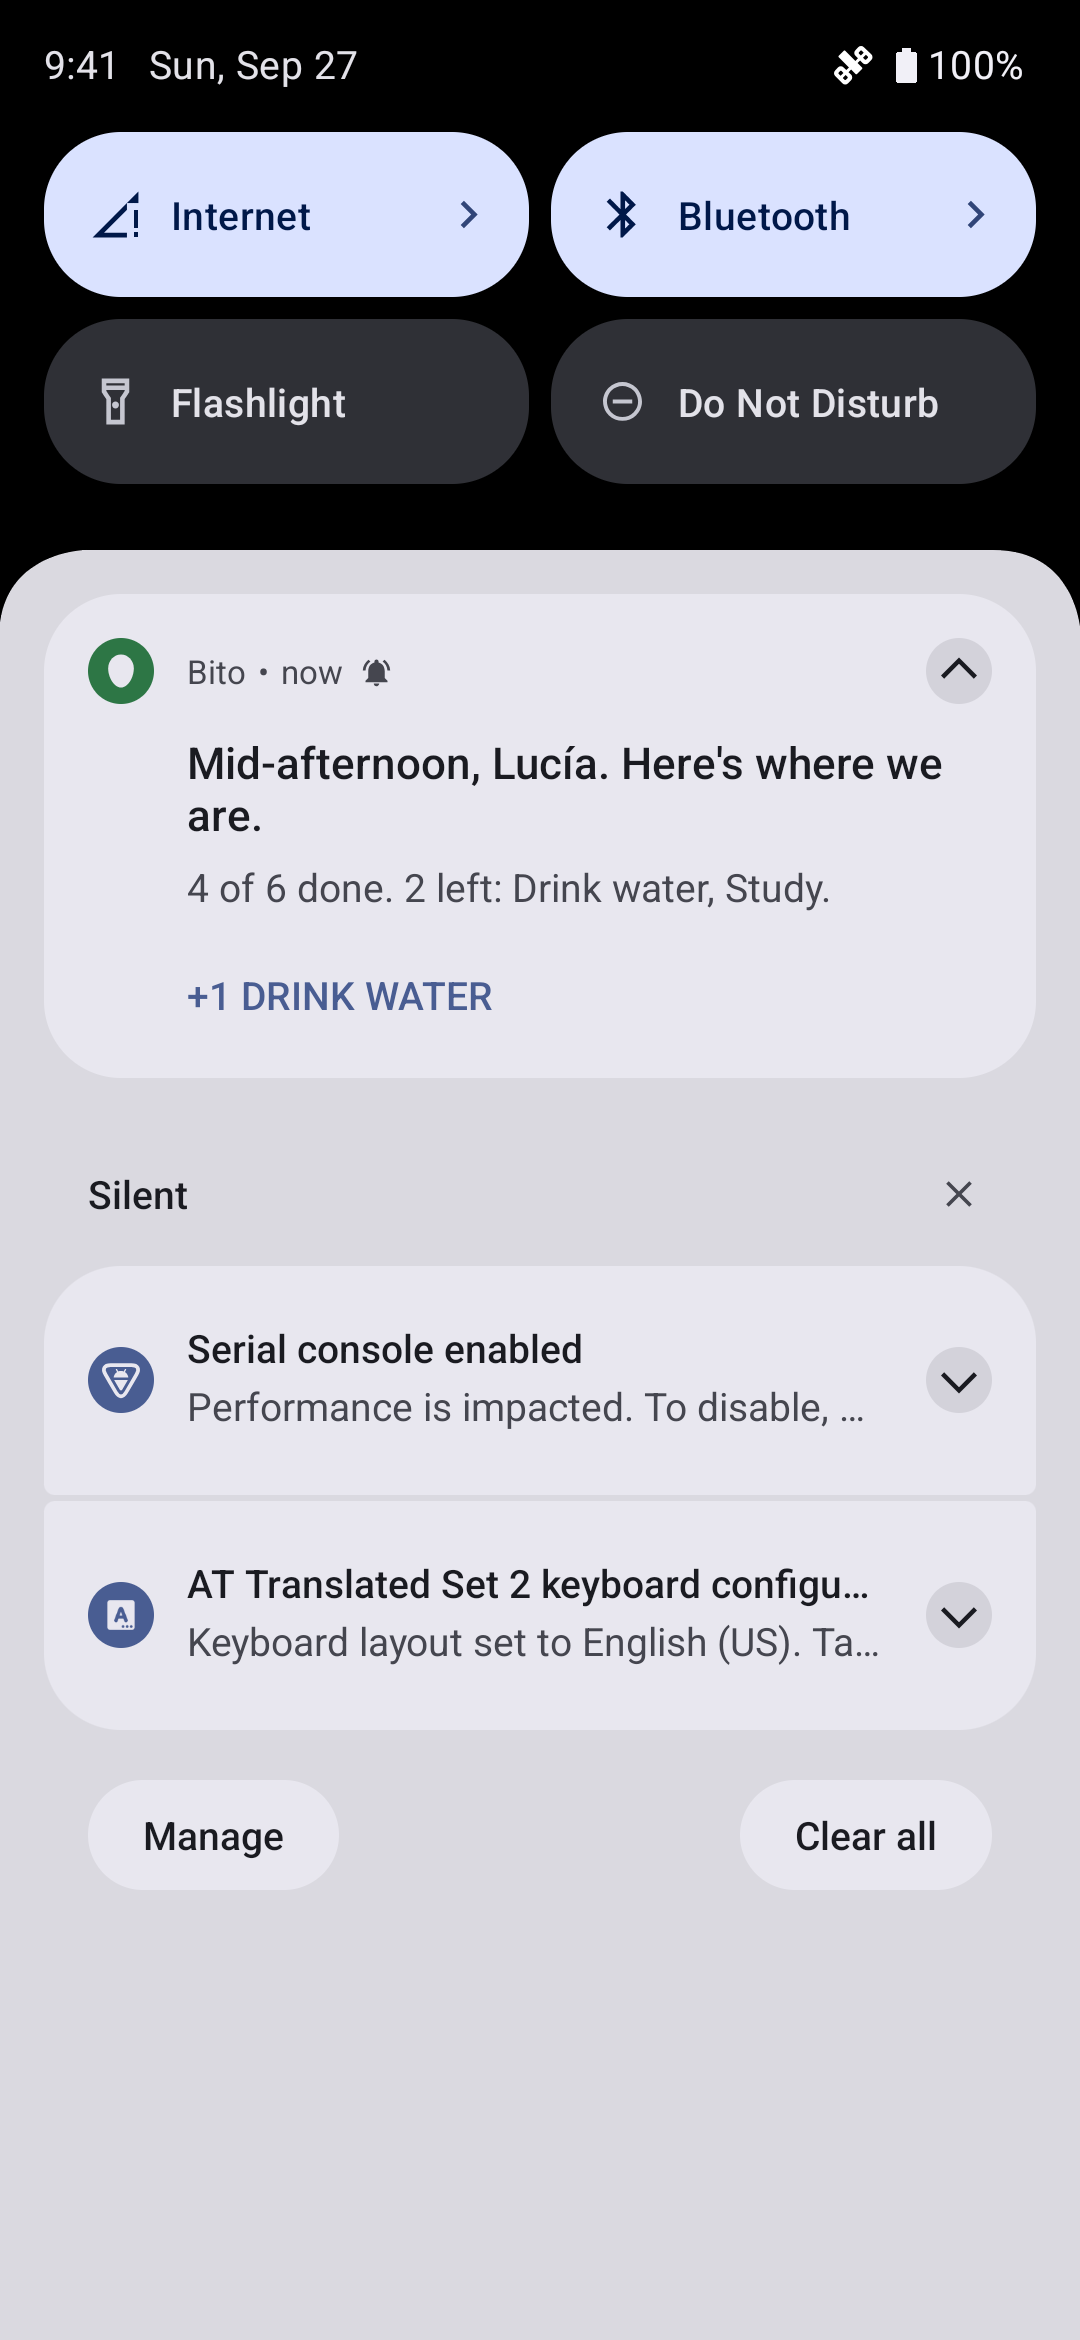
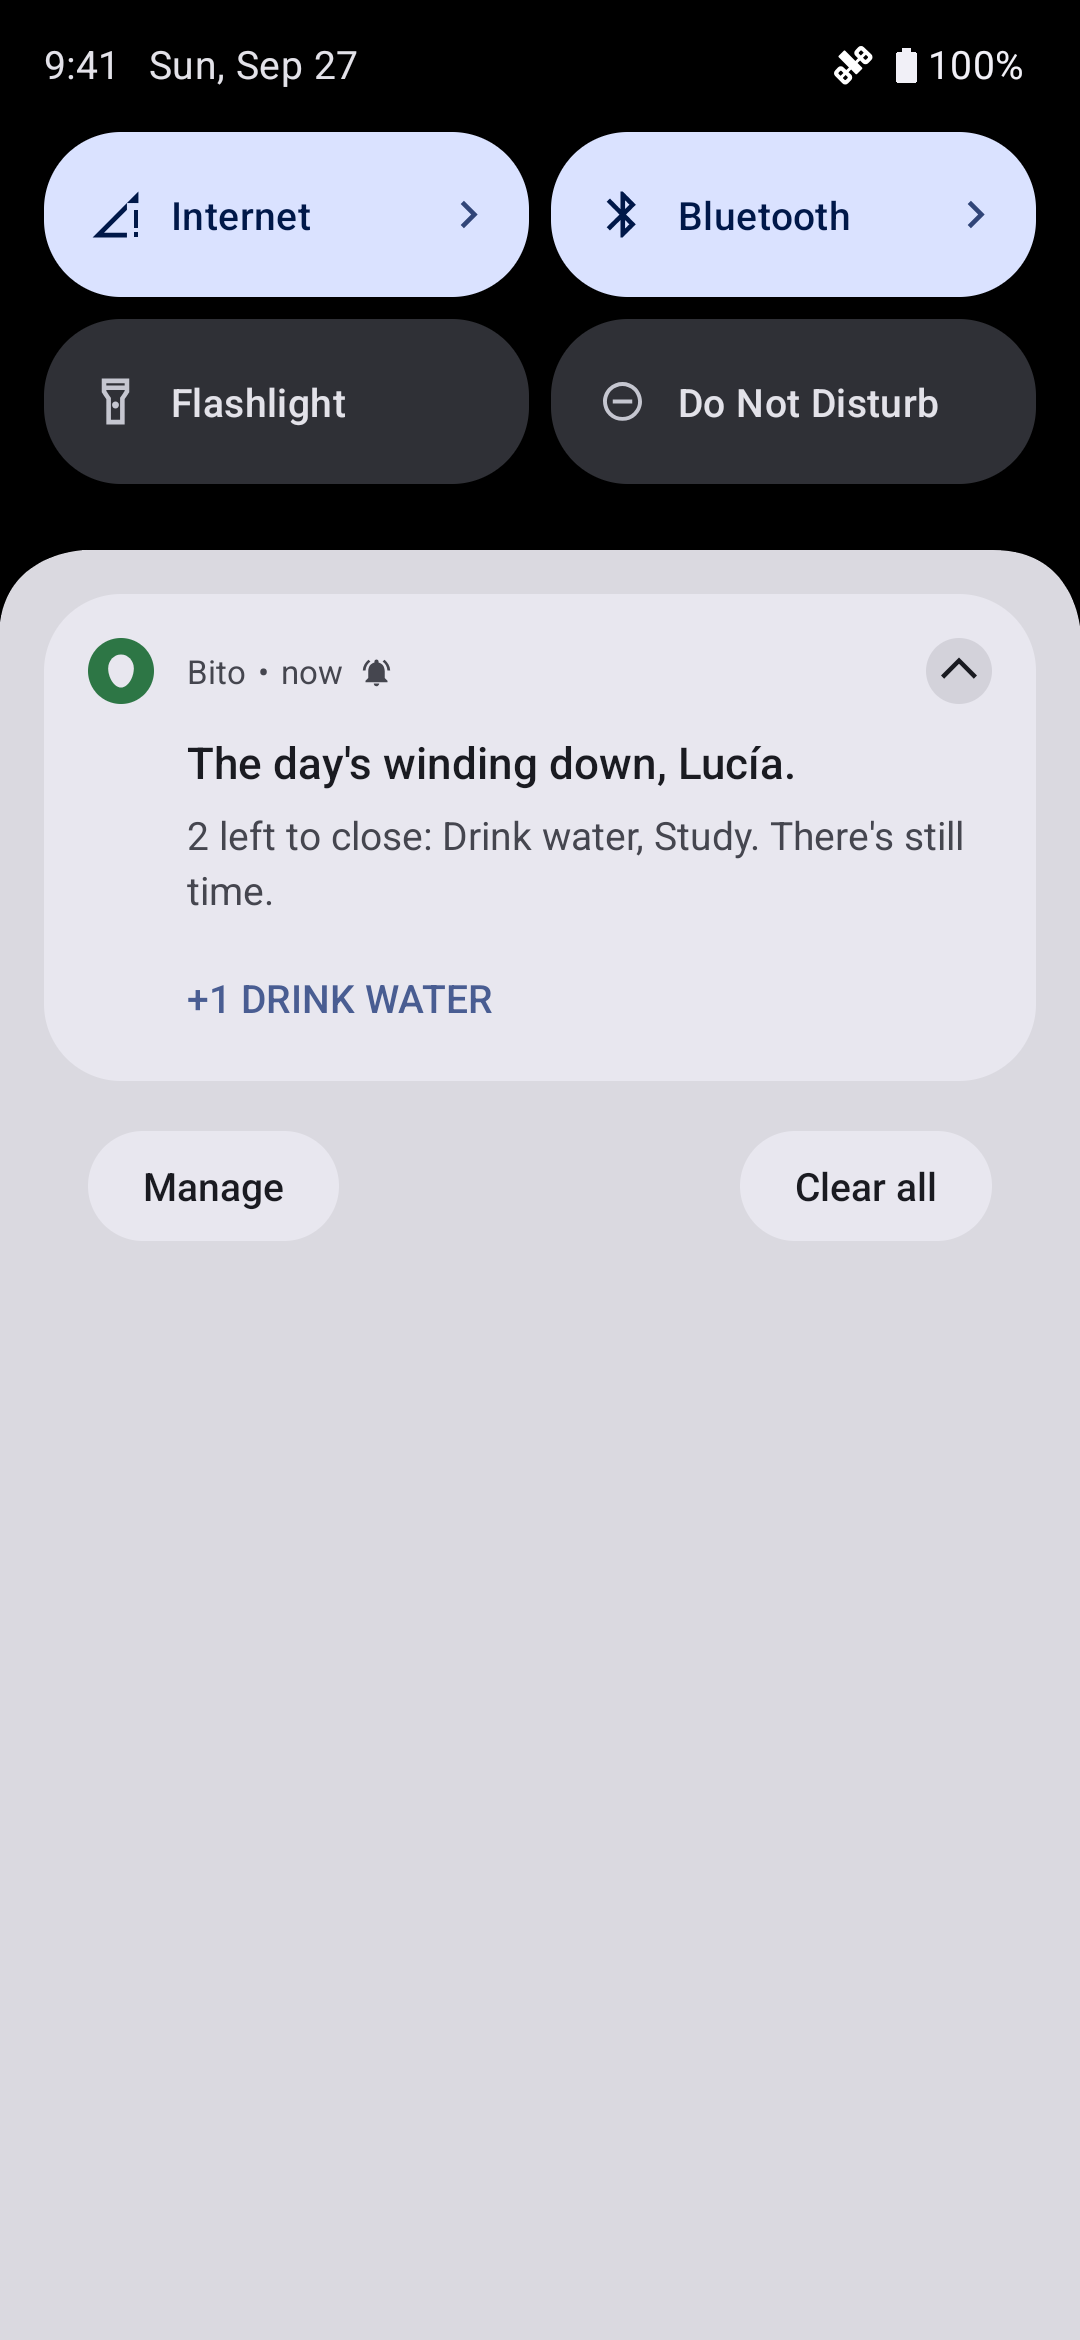
fix(shots): persiana limpia en la captura de notificacion
La captura EN de notificacion podia enseñar, bajo el aviso de Bito, un
grupo con notificaciones del sistema (consola en serie, teclado)
cuando salian despues del primer posponer. Ahora run_shots.py pospone
esas notificaciones dos veces mas -antes de armar el recordatorio de
Bito y justo antes de la foto- y capture() comprueba la persiana tras
la foto, descartando el intento si queda alguna notificacion ajena en
vez de confiar solo en el posponer.

Rehechas notificacion.png en/es, las capturas de tienda y los dos
video promocionales, que usan esa pantalla en la escena del triptico.

diff --git a/video/shots/test_run_shots.py b/video/shots/test_run_shots.py
@@ -2,7 +2,9 @@ import json
 import tempfile
 import unittest
 import xml.etree.ElementTree as ET
+from io import BytesIO
 from pathlib import Path
+from unittest import mock
 
 from PIL import Image
 
@@ -98,6 +100,103 @@ class RunShotsTest(unittest.TestCase):
             self.assertIsNone(run_shots.screencap_for("respiracion", 66))
         finally:
             run_shots.MAESTRO_SHOT_PATH = original
+
+    def test_notificacion_snoozes_system_notifications_before_arming_and_before_the_shot(self):
+        # Notificaciones del sistema (pkg=android: consola serie, teclado) pueden estar en la
+        # persiana en cualquier momento antes de la foto. before() las pospone al principio, para
+        # partir de una persiana limpia antes de armar el aviso de Bito, y otra vez justo antes
+        # de disparar, por si sale alguna entre medias.
+        calls: list[str] = []
+
+        def fake_shell(cmd, check=True):
+            if "expand-notifications" in cmd:
+                calls.append("expand")
+            return ""
+
+        with (
+            mock.patch.object(run_shots.d, "shell", side_effect=fake_shell),
+            mock.patch.object(run_shots, "snooze_system_notifications", side_effect=lambda: calls.append("snooze")),
+            mock.patch.object(run_shots, "notification_posted", return_value=True),
+            mock.patch.object(run_shots, "emulator"),
+            mock.patch.object(run_shots.subprocess, "run"),
+            mock.patch.object(run_shots.time, "sleep"),
+        ):
+            self.assertTrue(run_shots.before("notificacion", "en"))
+
+        self.assertEqual(calls, ["snooze", "snooze", "expand", "snooze"])
+
+
+class ShadeCleanTest(unittest.TestCase):
+    # Extracto real de `dumpsys notification --noredact` tras arrancar en frio el AVD
+    # bito-shots con -wipe-data: "Serial console enabled" (id=55) y "AT Translated Set 2
+    # keyboard configured" (id=19), las dos notificaciones de la regresion. Las dos son
+    # pkg=android, no de Bito.
+    DIRTY_DUMP = (
+        "Current Notification Manager state:\n"
+        "  Notification List:\n"
+        "    NotificationRecord(0x02ebc189: pkg=android user=UserHandle{-1} id=55 tag=null"
+        " importance=2 key=-1|android|55|null|1000: Notification(channel=DEVELOPER"
+        " shortcut=null contentView=null vibrate=null sound=null tick defaults=0"
+        " flags=ONGOING_EVENT|CAN_COLORIZE color=0x00000000 vis=PUBLIC))\n"
+        "    NotificationRecord(0x0c4f558e: pkg=android user=UserHandle{-1} id=19 tag=null"
+        " importance=2 key=-1|android|19|null|1000: Notification(channel=PHYSICAL_KEYBOARD"
+        " shortcut=null contentView=null vibrate=null sound=null defaults=0"
+        " flags=AUTO_CANCEL|CAN_COLORIZE color=0x00000000 vis=PRIVATE))\n"
+    )
+    CLEAN_DUMP = (
+        "Current Notification Manager state:\n"
+        "  Notification List:\n"
+        "    NotificationRecord(0x1a2b3c4d: pkg=com.alvarotc.bito user=UserHandle{0} id=1"
+        " tag=null importance=3 key=0|com.alvarotc.bito|1|null|10234:"
+        " Notification(channel=reminders shortcut=null contentView=null vibrate=null"
+        " sound=null defaults=0 flags=AUTO_CANCEL color=0xffab4433 vis=PRIVATE))\n"
+    )
+    EMPTY_DUMP = "Current Notification Manager state:\n  Notification List:\n"
+
+    def test_notification_records_parses_the_real_system_notifications(self):
+        self.assertEqual(
+            run_shots.notification_records(self.DIRTY_DUMP),
+            [("android", "-1|android|55|null|1000"), ("android", "-1|android|19|null|1000")],
+        )
+
+    def test_shade_is_clean_is_false_with_system_notifications_present(self):
+        with mock.patch.object(run_shots.d, "shell", return_value=self.DIRTY_DUMP):
+            self.assertFalse(run_shots.shade_is_clean())
+
+    def test_shade_is_clean_is_true_with_only_bitos_own_notification(self):
+        with mock.patch.object(run_shots.d, "shell", return_value=self.CLEAN_DUMP):
+            self.assertTrue(run_shots.shade_is_clean())
+
+    def test_shade_is_clean_is_true_with_no_notifications(self):
+        with mock.patch.object(run_shots.d, "shell", return_value=self.EMPTY_DUMP):
+            self.assertTrue(run_shots.shade_is_clean())
+
+
+class CaptureNotificacionShadeTest(unittest.TestCase):
+    def test_capture_retries_notificacion_when_the_shade_is_not_clean(self):
+        # No basta con posponer y confiar: si la persiana sigue sucia en la foto, capture()
+        # tiene que descartar el intento y repetir antes de aceptarla.
+        top, bottom = crop.load_geometry(HERE / "avd.env")
+        buf = BytesIO()
+        Image.new("RGB", (crop.WIDTH, crop.HEIGHT + top + bottom), (0xF2, 0xEC, 0xE1)).save(buf, "PNG")
+        raw_png = buf.getvalue()
+
+        with tempfile.TemporaryDirectory() as tmp:
+            tmp_path = Path(tmp)
+            with (
+                mock.patch.object(run_shots, "PUBLIC", tmp_path / "public"),
+                mock.patch.object(run_shots, "RAW", tmp_path / "raw"),
+                mock.patch.object(run_shots, "before", return_value=True),
+                mock.patch.object(run_shots, "run_maestro", return_value=True),
+                mock.patch.object(run_shots, "after"),
+                mock.patch.object(run_shots.d, "screencap", return_value=raw_png),
+                mock.patch.object(run_shots, "shade_is_clean") as shade_mock,
+            ):
+                shade_mock.side_effect = [False, True]
+                status = run_shots.capture("notificacion", "en", {}, top, bottom)
+                self.assertEqual(shade_mock.call_count, 2)
+
+        self.assertEqual(status, "ok")
 
 
 if __name__ == "__main__":

diff --git a/video/shots/run_shots.py b/video/shots/run_shots.py
@@ -54,7 +54,8 @@ NOTIFICATION_WAIT_S = 240
 HABI_EYES = (440, 400, 640, 475)
 HABI_EYES_MIN_DARK = 300
 BLINK_RETRIES = 5
-SNOOZE_MS = 600000
+SNOOZE_MS = 3600000
+NOTIFICATION_RECORD_RE = re.compile(r"NotificationRecord\(\S+ pkg=(\S+) .*? key=(\S+): Notification\(")
 # Boton de comprar de la tienda: en la columna x=300 es la ultima franja verde alta (>=100 px);
 # debajo tiene que verse el margen de su tarjeta (>=20 px), si no el boton sale cortado.
 BUY_COLUMN_X = 300
@@ -89,11 +90,22 @@ def notification_posted() -> bool:
     return any("NotificationRecord(" in line and f"pkg={d.PKG}" in line for line in dump.splitlines())
 
 
+def notification_records(dump: str) -> list[tuple[str, str]]:
+    """(pkg, key) de cada NotificationRecord activo en un volcado de `dumpsys notification`."""
+    return NOTIFICATION_RECORD_RE.findall(dump)
+
+
 def snooze_system_notifications() -> None:
     dump = d.shell("dumpsys notification --noredact", check=False)
-    for pkg, key in re.findall(r"NotificationRecord\(\S+ pkg=(\S+) .*? key=(\S+): Notification\(", dump):
+    for pkg, key in notification_records(dump):
         if pkg != d.PKG:
             d.shell(f"cmd notification snooze --for {SNOOZE_MS} '{key}'", check=False)
+
+
+def shade_is_clean() -> bool:
+    """True si en la persiana no hay ninguna notificacion activa que no sea de Bito."""
+    dump = d.shell("dumpsys notification --noredact", check=False)
+    return all(pkg == d.PKG for pkg, _key in notification_records(dump))
 
 
 def before(screen: str, lang: str) -> bool:
@@ -101,6 +113,12 @@ def before(screen: str, lang: str) -> bool:
     if screen == "notificacion":
         d.shell("settings put global adb_notify 0", check=False)
         d.shell("svc wifi disable", check=False)
+        # Notificaciones del sistema como "Serial console enabled" o "AT Translated Set 2
+        # keyboard configured" (pkg=android) pueden estar en la persiana cuando se dispara la
+        # de Bito. Se posponen aqui, para partir de una persiana limpia, y otra vez justo antes
+        # de la foto por si sale alguna entre medias; capture() ademas comprueba la persiana
+        # tras la foto y descarta el intento si queda alguna, para no depender solo del aviso.
+        snooze_system_notifications()
         subprocess.run([sys.executable, str(HERE / "prepare.py"), "--lang", lang, "--arm-reminder", "2"], check=True)
         deadline = time.monotonic() + NOTIFICATION_WAIT_S
         while not notification_posted():
@@ -111,6 +129,8 @@ def before(screen: str, lang: str) -> bool:
         emulator("demo")
         d.shell("cmd statusbar expand-notifications")
         time.sleep(2)
+        snooze_system_notifications()
+        time.sleep(1)
         return True
     d.force_stop()
     if screen == "widget":
@@ -190,6 +210,8 @@ def capture(screen: str, lang: str, labels: dict[str, str], top: int, bottom: in
                 crop.crop_raw(raw, out, top, bottom)
             if screen == "tienda" and not buy_button_whole(out):
                 print(f"run_shots: {lang}/{screen} intento {attempt}: el boton de comprar sale cortado", file=sys.stderr)
+            elif screen == "notificacion" and not shade_is_clean():
+                print(f"run_shots: {lang}/{screen} intento {attempt}: la persiana tiene notificaciones del sistema", file=sys.stderr)
             elif screen not in PAPEL_SCREENS or crop.top_row_is_papel(out):
                 after(screen)
                 return "ok"

diff --git a/video/shots/README.md b/video/shots/README.md
@@ -49,8 +49,14 @@ Excepción: `notificacion` (`CROP_FROM_TOP` en `run_shots.py`) se recorta desde 
 `1080x2340+0+0`. Conserva la cabecera de la persiana (hora, fecha, ajustes rápidos) y pierde los
 66 px de la zona de gestos, que en la persiana no tienen nada. Durante esa captura se apagan el
 wifi y el aviso de depuración USB (`adb_notify 0`), y el resto de notificaciones que no son de
-Bito (la de «consola en serie habilitada») se posponen 10 minutos con `cmd notification snooze`.
-El AVD se crea con `hw.keyboard=no` para que no salga «Teclados físicos configurados».
+Bito (pkg=android, como «consola en serie habilitada» o «teclado AT Translated Set 2
+configurado») se posponen una hora con `cmd notification snooze`: una vez antes de armar el
+recordatorio de Bito, para partir de una persiana limpia, y otra vez justo antes de la foto, por
+si sale alguna entre medias. `capture()` además comprueba la persiana tras la foto
+(`shade_is_clean`) y descarta el intento si queda alguna notificación ajena, en vez de confiar
+solo en el posponer. `hw.keyboard=no` en el AVD no evita la del teclado: esa notificación la
+posta el dispositivo de entrada virtual del emulador, no depende de si Android trata el teclado
+como físico.
 
 En `foco`, Habi parpadea: `run_shots.py` mira si hay píxeles oscuros en la zona de sus ojos y,
 si no, repite la captura cada 400 ms (hasta 5 veces); si no los encuentra, el intento falla.
